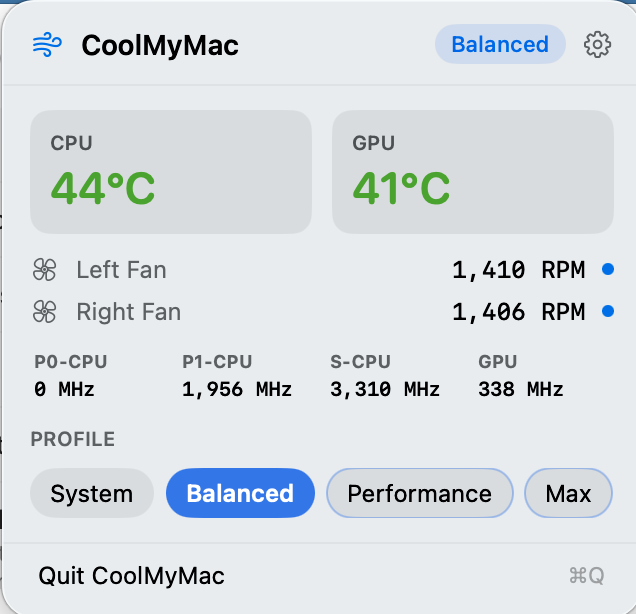
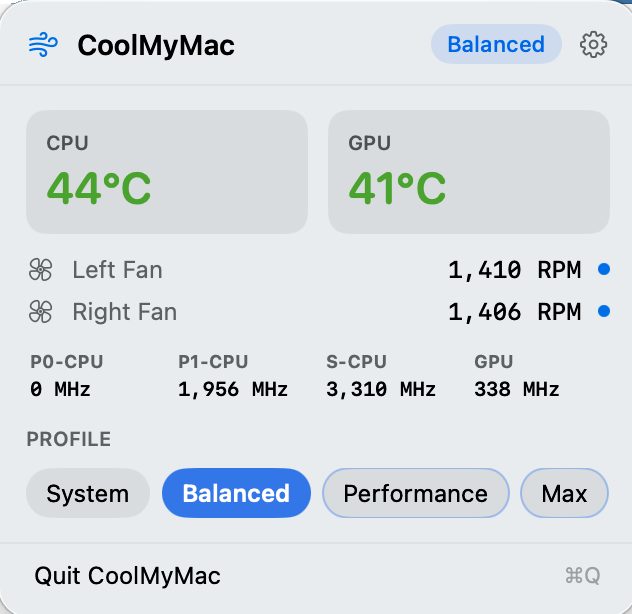
feat: side-by-side hero layout, click-to-copy brew terminal, clean screenshot
- Restructure hero to two-column flex layout (text left, screenshot right)
  with responsive stacking below 820px
- Add click-to-copy Homebrew terminal block in hero
- Fix fan profile name: Quiet → System
- Crop 4px artifact strip from left edge of screenshot

diff --git a/docs/index.html b/docs/index.html
@@ -91,10 +91,43 @@
 
     /* ── HERO ── */
     .hero {
-      text-align: center;
-      padding: 72px 24px 56px;
-      max-width: 720px;
+      display: flex;
+      align-items: center;
+      gap: 56px;
+      max-width: 1080px;
       margin: 0 auto;
+      padding: 72px 48px 64px;
+    }
+
+    .hero-text {
+      flex: 1;
+      min-width: 0;
+      text-align: left;
+    }
+
+    .hero-image {
+      flex-shrink: 0;
+      width: 320px;
+    }
+
+    .hero-image img {
+      width: 100%;
+      border-radius: 18px;
+      box-shadow: 0 8px 40px rgba(0,0,0,0.12), 0 1px 4px rgba(0,0,0,0.06);
+      border: 1px solid var(--border);
+    }
+
+    @media (max-width: 820px) {
+      .hero {
+        flex-direction: column;
+        text-align: center;
+        padding: 56px 24px 48px;
+        gap: 40px;
+      }
+      .hero-text { text-align: center; }
+      .hero-image { width: 100%; max-width: 320px; }
+      .brew-terminal { margin-left: auto; margin-right: auto; }
+      .cta-group { justify-content: center; }
     }
 
     .badge {
@@ -245,22 +278,6 @@
 
     .brew-lines .prompt { color: #4ade80; }
     .brew-lines .cmd    { color: #e2e8f0; }
-
-    /* ── SCREENSHOT ── */
-    .screenshot-wrap {
-      max-width: 480px;
-      margin: 0 auto 80px;
-      padding: 0 24px;
-      text-align: center;
-    }
-
-    .screenshot-wrap img {
-      width: 100%;
-      max-width: 360px;
-      border-radius: 18px;
-      box-shadow: 0 8px 32px rgba(0,0,0,0.10), 0 1px 4px rgba(0,0,0,0.06);
-      border: 1px solid var(--border);
-    }
 
     /* ── FEATURES ── */
     .features {
@@ -485,54 +502,55 @@
 
 <!-- ── HERO ── -->
 <section class="hero">
-  <div class="badge">
-    <span class="badge-dot"></span>
-    Free &amp; Open Source · macOS 15+
-  </div>
-  <h1>Fan control that<br>stays out of your way</h1>
-  <p class="hero-sub">
-    CoolMyMac is a lightweight Menu Bar utility that gives you full control over your Mac's fans — without the complexity.
-    Built for Apple Silicon and Intel, under 2&nbsp;MB.
-  </p>
-  <div class="brew-terminal" onclick="copyBrew(this)" title="Click to copy">
-    <div class="brew-terminal-header">
-      <div class="brew-terminal-dots">
-        <span></span><span></span><span></span>
+  <div class="hero-text">
+    <div class="badge">
+      <span class="badge-dot"></span>
+      Free &amp; Open Source · macOS 15+
+    </div>
+    <h1>Fan control that<br>stays out of your way</h1>
+    <p class="hero-sub">
+      CoolMyMac is a lightweight Menu Bar utility that gives you full control over your Mac's fans — without the complexity.
+      Built for Apple Silicon and Intel, under 2&nbsp;MB.
+    </p>
+    <div class="brew-terminal" onclick="copyBrew(this)" title="Click to copy">
+      <div class="brew-terminal-header">
+        <div class="brew-terminal-dots">
+          <span></span><span></span><span></span>
+        </div>
+        <div class="brew-copy-btn">
+          <svg class="icon-copy" width="13" height="13" viewBox="0 0 24 24" fill="none" stroke="currentColor" stroke-width="2" stroke-linecap="round" stroke-linejoin="round"><rect x="9" y="9" width="13" height="13" rx="2"/><path d="M5 15H4a2 2 0 0 1-2-2V4a2 2 0 0 1 2-2h9a2 2 0 0 1 2 2v1"/></svg>
+          <svg class="icon-check" width="13" height="13" viewBox="0 0 24 24" fill="none" stroke="currentColor" stroke-width="2.5" stroke-linecap="round" stroke-linejoin="round" style="display:none"><polyline points="20 6 9 17 4 12"/></svg>
+          <span class="copy-label">Copy</span>
+        </div>
       </div>
-      <div class="brew-copy-btn">
-        <svg class="icon-copy" width="13" height="13" viewBox="0 0 24 24" fill="none" stroke="currentColor" stroke-width="2" stroke-linecap="round" stroke-linejoin="round"><rect x="9" y="9" width="13" height="13" rx="2"/><path d="M5 15H4a2 2 0 0 1-2-2V4a2 2 0 0 1 2-2h9a2 2 0 0 1 2 2v1"/></svg>
-        <svg class="icon-check" width="13" height="13" viewBox="0 0 24 24" fill="none" stroke="currentColor" stroke-width="2.5" stroke-linecap="round" stroke-linejoin="round" style="display:none"><polyline points="20 6 9 17 4 12"/></svg>
-        <span class="copy-label">Copy</span>
+      <div class="brew-lines">
+        <div><span class="prompt">$</span> <span class="cmd">brew tap ecc521/coolmymac</span></div>
+        <div><span class="prompt">$</span> <span class="cmd">brew install --cask coolmymac</span></div>
       </div>
     </div>
-    <div class="brew-lines">
-      <div><span class="prompt">$</span> <span class="cmd">brew tap ecc521/coolmymac</span></div>
-      <div><span class="prompt">$</span> <span class="cmd">brew install --cask coolmymac</span></div>
+
+    <div class="cta-group">
+      <a href="https://github.com/ecc521/CoolMyMac/releases/latest" class="btn-primary">
+        <svg width="16" height="16" viewBox="0 0 16 16" fill="currentColor" aria-hidden="true">
+          <path d="M8 12l-4.5-4.5 1.06-1.06L7.5 9.38V2h1v7.38l2.94-2.94L12.5 7.5 8 12z"/>
+          <path d="M2 13h12v1H2z"/>
+        </svg>
+        Download DMG
+      </a>
+      <a href="https://github.com/ecc521/CoolMyMac" class="btn-secondary" target="_blank" rel="noopener">
+        <svg width="16" height="16" viewBox="0 0 16 16" fill="currentColor" aria-hidden="true">
+          <path d="M8 0C3.58 0 0 3.58 0 8c0 3.54 2.29 6.53 5.47 7.59.4.07.55-.17.55-.38 0-.19-.01-.82-.01-1.49-2.01.37-2.53-.49-2.69-.94-.09-.23-.48-.94-.82-1.13-.28-.15-.68-.52-.01-.53.63-.01 1.08.58 1.23.82.72 1.21 1.87.87 2.33.66.07-.52.28-.87.51-1.07-1.78-.2-3.64-.89-3.64-3.95 0-.87.31-1.59.82-2.15-.08-.2-.36-1.02.08-2.12 0 0 .67-.21 2.2.82.64-.18 1.32-.27 2-.27.68 0 1.36.09 2 .27 1.53-1.04 2.2-.82 2.2-.82.44 1.1.16 1.92.08 2.12.51.56.82 1.27.82 2.15 0 3.07-1.87 3.75-3.65 3.95.29.25.54.73.54 1.48 0 1.07-.01 1.93-.01 2.2 0 .21.15.46.55.38A8.013 8.013 0 0016 8c0-4.42-3.58-8-8-8z"/>
+        </svg>
+        View on GitHub
+      </a>
     </div>
+    <p class="hero-meta">Or <a href="#install">see all install options ↓</a></p>
   </div>
 
-  <div class="cta-group">
-    <a href="https://github.com/ecc521/CoolMyMac/releases/latest" class="btn-primary">
-      <svg width="16" height="16" viewBox="0 0 16 16" fill="currentColor" aria-hidden="true">
-        <path d="M8 12l-4.5-4.5 1.06-1.06L7.5 9.38V2h1v7.38l2.94-2.94L12.5 7.5 8 12z"/>
-        <path d="M2 13h12v1H2z"/>
-      </svg>
-      Download DMG
-    </a>
-    <a href="https://github.com/ecc521/CoolMyMac" class="btn-secondary" target="_blank" rel="noopener">
-      <svg width="16" height="16" viewBox="0 0 16 16" fill="currentColor" aria-hidden="true">
-        <path d="M8 0C3.58 0 0 3.58 0 8c0 3.54 2.29 6.53 5.47 7.59.4.07.55-.17.55-.38 0-.19-.01-.82-.01-1.49-2.01.37-2.53-.49-2.69-.94-.09-.23-.48-.94-.82-1.13-.28-.15-.68-.52-.01-.53.63-.01 1.08.58 1.23.82.72 1.21 1.87.87 2.33.66.07-.52.28-.87.51-1.07-1.78-.2-3.64-.89-3.64-3.95 0-.87.31-1.59.82-2.15-.08-.2-.36-1.02.08-2.12 0 0 .67-.21 2.2.82.64-.18 1.32-.27 2-.27.68 0 1.36.09 2 .27 1.53-1.04 2.2-.82 2.2-.82.44 1.1.16 1.92.08 2.12.51.56.82 1.27.82 2.15 0 3.07-1.87 3.75-3.65 3.95.29.25.54.73.54 1.48 0 1.07-.01 1.93-.01 2.2 0 .21.15.46.55.38A8.013 8.013 0 0016 8c0-4.42-3.58-8-8-8z"/>
-      </svg>
-      View on GitHub
-    </a>
+  <div class="hero-image">
+    <img src="assets/screenshot.png" alt="CoolMyMac Menu Bar Interface showing fan speeds, temperatures, and profile selection" loading="lazy">
   </div>
-  <p class="hero-meta">Or <a href="#install">see all install options ↓</a></p>
 </section>
-
-<!-- ── SCREENSHOT ── -->
-<div class="screenshot-wrap">
-  <img src="assets/screenshot.png" alt="CoolMyMac Menu Bar Interface showing fan speeds, temperatures, and profile selection" loading="lazy">
-</div>
 
 <!-- ── FEATURES ── -->
 <section class="features" id="features">